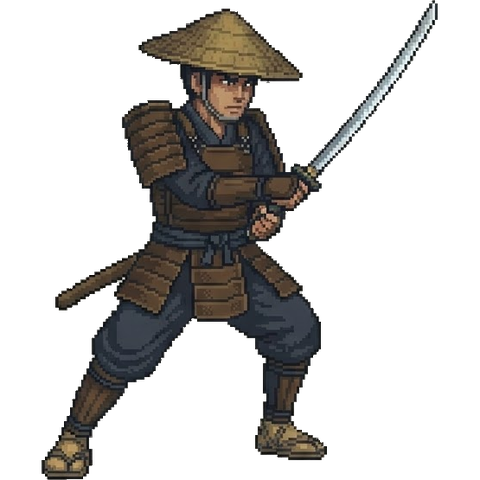
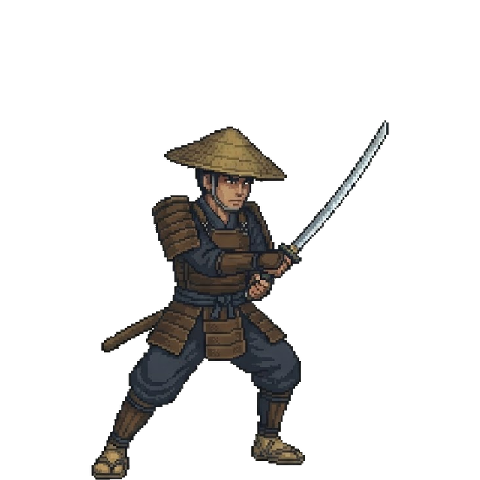
feat(st2): 낭인 PNG 자체 75% 축소 + WASD 키 + 돌파 개편(첫 블록만 관통·쿨7) + 궁수 3포즈 완성
- 낭인 3포즈: PNG 콘텐츠 75% 축소(바닥 정렬) — CSS 축소 방식 폐기(sp-ronin 제거)
- 키: A/D 이동 · W 전환 · S 대기 (화살표 병행), 키캡·안내문 갱신
- 돌파: 쿨 7턴, 전방 첫 적까지만 관통 — 붙어 있는 적들은 한 블록으로 함께 관통,
  블록 너머 착지, 떨어진 적은 무사 · 호버 미리보기도 동일 규칙
- 궁수: 활 당기기(archer_aim)·발사(archer_shot) 연결 — 차지/발사 턴에 자동 전환
- 검증 102케이스 ×3회 통과(블록 관통·단일 관통·착지 좌표·키 바인딩)

Changed region(s): [[0.0625, 0.0, 0.9375, 1.0]]

diff --git a/apps/games/st2/index.html b/apps/games/st2/index.html
@@ -58,7 +58,6 @@
       .unit.flip .hero-img { transform: scaleX(-1); }
       .unit.imgmode { width: 215%; margin-bottom: -6%; z-index: 2; }
       .unit.en.imgmode { width: 193%; } /* 일반 적 기본 10% 축소 */
-      .unit.en.imgmode.sp-ronin { width: 154%; } /* 낭인은 추가 20% 축소 */
       .unit.en.imgmode.sp-ronin2 { width: 215%; } /* 무사는 축소 금지 — 주인공과 동급 */
       .unit.imgmode .face { display: none; }
       .unit::after { content: ''; position: absolute; left: 10%; right: 10%; bottom: -5px; height: 6px; border-radius: 50%; background: radial-gradient(ellipse, rgba(0,0,0,.55), transparent 70%); }
@@ -202,7 +201,7 @@
         hoe:  { key: 'hoe',  name: '회전베기', glyph: '旋', cd: 4, dmg: 1, info: function (t) { return '양옆 1칸 ' + t.dmg + '딜'; } },
         su:   { key: 'su',   name: '수리검', glyph: '手', cd: 3, dmg: 1, info: function (t) { return '전방 직선 첫 적 ' + t.dmg + '딜'; } },
         mil:  { key: 'mil',  name: '밀치기', glyph: '押', cd: 2, dmg: 0, info: function (t) { return '전방 적 2칸 넉백' + (t.dmg ? ' +' + t.dmg + '딜' : '') + ' (벽 충돌 시 1딜)'; } },
-        brk:  { key: 'brk',  name: '돌파',   glyph: '破', cd: 5, dmg: 1, info: function (t) { return '전방 모든 적 관통 ' + t.dmg + '딜 · 적진 너머 착지'; } },
+        brk:  { key: 'brk',  name: '돌파',   glyph: '破', cd: 7, dmg: 1, info: function (t) { return '전방 첫 적(붙은 적 포함) 관통 ' + t.dmg + '딜 · 너머 착지'; } },
         dol:  { key: 'dol',  name: '돌진',   glyph: '走', cd: 4, dmg: 1, info: function (t) { return '전방 3칸 이동 후 ' + t.dmg + '딜'; } },
         bal:  { key: 'bal',  name: '발도술', glyph: '拔', cd: 5, dmg: 1, info: function (t) { return '전방 1·2칸 각 ' + t.dmg + '딜'; } },
       };
@@ -792,18 +791,20 @@
             }
           }
         } else if (t.key === 'brk') {
-          var bd = d;
-          var bt = S.foes.filter(function (f3) { return f3.hp > 0 && (bd > 0 ? f3.pos > p.pos : f3.pos < p.pos); });
-          if (!bt.length) { S.log = '돌파 — 전방에 적이 없다.'; }
+          /* 일섬과 달리 첫 적까지만 — 단, 붙어 있는 적들은 한 블록으로 함께 관통 */
+          var bd = d, firstB = null;
+          for (var sc = p.pos + bd; inBoard(sc); sc += bd) { if (foeAt(sc)) { firstB = sc; break; } }
+          if (firstB == null) { S.log = '돌파 — 전방에 적이 없다.'; }
           else {
+            var block = [];
+            for (var bc = firstB; inBoard(bc) && foeAt(bc); bc += bd) block.push(foeAt(bc));
             FX.flash = true; FX.quake = true;
             SFX.pierce();
-            var farB = p.pos;
-            bt.forEach(function (f3) { if (bd > 0 ? f3.pos > farB : f3.pos < farB) farB = f3.pos; });
+            var farB = block[block.length - 1].pos;
             var landB = farB + bd;
             if (!inBoard(landB)) landB = farB;
             for (var cb = p.pos + bd; bd > 0 ? cb <= farB : cb >= farB; cb += bd) FX.dash.push(cb);
-            bt.forEach(function (f3) { hitFoe(f3, t.dmg, '돌파'); });
+            block.forEach(function (f3) { hitFoe(f3, t.dmg, '돌파'); });
             while (foeAt(landB) && landB !== p.pos) landB -= bd;
             p.pos = landB;
           }
@@ -1060,12 +1061,9 @@
           else if (pk === 'su') { for (var sq = pp + pdv; inBoard(sq); sq += pdv) { if (foeAt(sq)) { mark(sq, 'pv-hit'); break; } mark(sq, 'pv-path'); } }
           else if (pk === 'mil') { mark(pp + pdv, 'pv-hit'); }
           else if (pk === 'brk') {
-            var farP = null;
-            for (var b1 = pp + pdv; inBoard(b1); b1 += pdv) if (foeAt(b1)) farP = b1;
-            if (farP == null) { for (var b2 = pp + pdv; inBoard(b2); b2 += pdv) mark(b2, 'pv-path'); }
-            else {
-              for (var b3 = pp + pdv; pdv > 0 ? b3 <= farP : b3 >= farP; b3 += pdv) mark(b3, foeAt(b3) ? 'pv-hit' : 'pv-path');
-            }
+            var firstP = null;
+            for (var b1 = pp + pdv; inBoard(b1); b1 += pdv) { if (foeAt(b1)) { firstP = b1; break; } mark(b1, 'pv-path'); }
+            if (firstP != null) for (var b2 = firstP; inBoard(b2) && foeAt(b2); b2 += pdv) mark(b2, 'pv-hit');
           }
           else if (pk === 'dol') { var dp = pp, ds = 0; while (ds < 3 && inBoard(dp + pdv) && !foeAt(dp + pdv)) { dp += pdv; ds++; mark(dp, 'pv-path'); } mark(dp + pdv, 'pv-hit'); }
         }
@@ -1132,11 +1130,11 @@
           '<button class="btn-strike" id="strike" ' + (S.queue.length ? '' : 'disabled') + '>발동!</button></div>' +
           '<div class="tiles">' + tiles + '</div>' +
           '<div class="moves">' +
-          '<button class="mbtn" data-a="left"><span class="m-ico">◀</span><span class="m-lb">이동</span><kbd>←</kbd></button>' +
-          '<button class="mbtn" data-a="flip"><span class="m-ico">⇄</span><span class="m-lb">전환</span><kbd>↑</kbd></button>' +
-          '<button class="mbtn" data-a="wait"><span class="m-ico">◎</span><span class="m-lb">대기</span><kbd>W</kbd></button>' +
-          '<button class="mbtn" data-a="right"><span class="m-ico">▶</span><span class="m-lb">이동</span><kbd>→</kbd></button></div>' +
-          '<div class="keys">키보드: ←→ 이동 · ↑ 전환 · 1~6 기술패 · Space 발동 · E 魂일섬 · W 대기</div>';
+          '<button class="mbtn" data-a="left"><span class="m-ico">◀</span><span class="m-lb">이동</span><kbd>A</kbd></button>' +
+          '<button class="mbtn" data-a="flip"><span class="m-ico">⇄</span><span class="m-lb">전환</span><kbd>W</kbd></button>' +
+          '<button class="mbtn" data-a="wait"><span class="m-ico">◎</span><span class="m-lb">대기</span><kbd>S</kbd></button>' +
+          '<button class="mbtn" data-a="right"><span class="m-ico">▶</span><span class="m-lb">이동</span><kbd>D</kbd></button></div>' +
+          '<div class="keys">키보드: A·D 이동 · W 전환 · S 대기 · 1~6 기술패 · Space 발동 · E 魂일섬</div>';
         wire();
       }
       function titleHtml() {
@@ -1191,11 +1189,11 @@
           else if (e.key === '4') { SFX.die(); newRun(); }
           return;
         }
-        if (e.key === 'ArrowLeft') act('move', -1);
-        else if (e.key === 'ArrowRight') act('move', 1);
-        else if (e.key === 'ArrowUp') act('flip');
+        if (e.key === 'ArrowLeft' || e.key === 'a' || e.key === 'A') act('move', -1);
+        else if (e.key === 'ArrowRight' || e.key === 'd' || e.key === 'D') act('move', 1);
+        else if (e.key === 'ArrowUp' || e.key === 'w' || e.key === 'W') act('flip');
         else if (e.key === ' ') { e.preventDefault(); act('strike'); }
-        else if (e.key === 'w' || e.key === 'W') act('wait');
+        else if (e.key === 's' || e.key === 'S') act('wait');
         else if (e.key === 'e' || e.key === 'E') act('soul');
         else if (e.key >= '1' && e.key <= '6') act('queue', +e.key - 1);
       });
